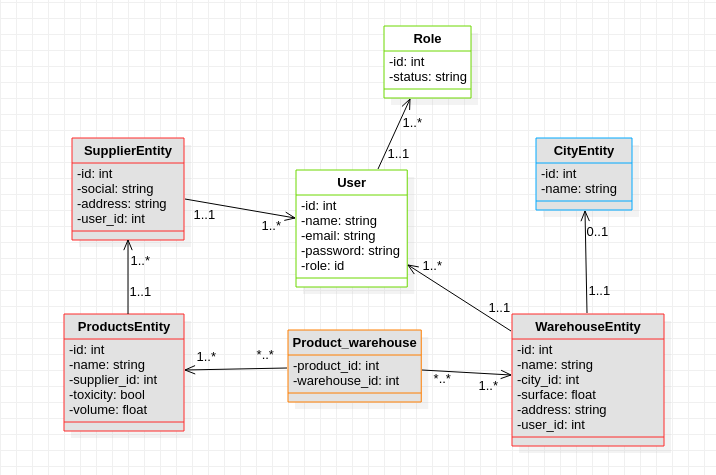
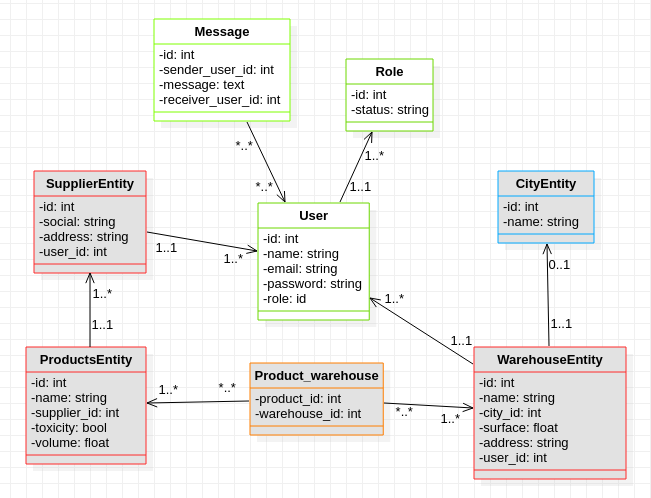
messagerie en cours

Changed region(s): [[0.0307, 0.0295, 0.9831, 0.9726], [0.2151, 0.0295, 0.4608, 0.2947], [0.7373, 0.2653, 0.9217, 0.56]]

diff --git a/www/public/assets/css/styles.css b/www/public/assets/css/styles.css
@@ -31,7 +31,7 @@ p{
 }
 
 @media (max-width: 420px){
-    .display-3, .display-4{
+    .display-3, .display-4, .display-5{
         font-size: 2em;
     }
 

diff --git a/www/src/Controller/MessageController.php b/www/src/Controller/MessageController.php
@@ -1,0 +1,90 @@
+<?php
+namespace App\Controller;
+
+use Core\Controller\Controller;
+use Core\Controller\FormController;
+
+class MessageController extends Controller
+{
+    public function __construct()
+    {
+        $this->userOnly();
+        $this->loadModel('message');
+        $this->loadModel('user');
+    }
+
+    /**
+     * Affichage les messages recues de tous
+     *
+     * @return string
+     */
+    public function index($id)
+    {
+        $this->userOnlyById($id);
+        
+        $user = $this->user->find($id);
+        $messages = $this->message->findAll($id, 'receiver_id');
+
+
+        return $this->render('message/index.html',[
+            'user' => $user,
+            'messages' => $messages
+        ]);
+    }
+
+    /**
+     * Affichage les messages recues d'un autre utilisateur
+     * Traitement de reponse
+     *
+     * @return string
+     */
+    public function show($id, $contact_id)
+    {
+        $this->userOnlyById($id);
+        $messages = $this->message->findAllByContact($id, $contact_id);
+
+        if (!$messages) {
+            header('location: '.$this->generateUrl('messages', ['id' => $id]));
+        }
+        
+        return $this->render('message/show.html', [
+            'messages' => $messages
+        ]);
+    }
+
+    /**
+     * Affichage un formulaire d'ecriture de message
+     * Traitement de l'envoi
+     *
+     * @return string
+     */
+    public function new($id)
+    {
+        $this->userOnlyById($id);
+        $users = $this->user->allWithoutMe($id);
+        
+        $form = new FormController();
+        $form->field('receiver_id', ['require'])
+            ->field('message', ['require', 'length' => 10]);
+        $errors = $form->hasErrors();
+        
+        if (!isset($errors['post'])) {
+            $datas = $form->getDatas();
+
+            if (empty($errors)) {
+                $datas['sender_id'] = $id;
+
+                $this->message->create($datas);
+                $this->flash()->addSuccess('Votre message a bien été envoyé');
+                header('location: '. $this->generateUrl('message_show', ['id' => $id, 'contact_id' => $datas['receiver_id']]));
+                exit();
+            }else{
+                $this->flash()->addAlert('Veillez à bien remplir les champs');
+            }
+        }
+
+        return $this->render('message/add.html', [
+            "users" => $users
+        ]);
+    }
+}

diff --git a/www/src/Controller/UserController.php b/www/src/Controller/UserController.php
@@ -16,6 +16,7 @@ class UserController extends Controller
     {
         $this->loadModel('user');
         $this->loadModel('supplier');
+        $this->loadModel('message');
     }
 
     /**
@@ -26,8 +27,9 @@ class UserController extends Controller
      */
     public function login(): string
     {
+        $this->userForbidden();
 
-        if (!$_SESSION["auth"]["google"]["email"]) {
+        if (!$_SESSION["google"]["email"]) {
             $google = new AuthController();
             $googleClient = $google->loginByGoogle();
         }
@@ -69,6 +71,8 @@ class UserController extends Controller
      */
     public function register(): string
     {
+        $this->userForbidden();
+
         $form = new FormController();
         $form->field('mail', ["require", "verify"])
             ->field('password', ["require", "verify", "length" => 6])
@@ -110,9 +114,7 @@ class UserController extends Controller
      */
     public function profile():string
     {
-        if (!$_SESSION['auth']) {
-            \header('location: /');
-        }
+        $this->userOnly();
         
         $user = $_SESSION['auth'];
 
@@ -154,4 +156,5 @@ class UserController extends Controller
         unset($_SESSION['auth']);
         header('location: /');
     }
+
 }

diff --git a/www/src/Model/Entity/MessageEntity.php b/www/src/Model/Entity/MessageEntity.php
@@ -1,0 +1,64 @@
+<?php
+namespace App\Model\Entity;
+
+use Core\Model\Entity;
+
+class MessageEntity extends Entity
+{
+    private $id;
+    private $sender_id;
+    private $message;
+    private $receiver_id;
+    private $read;
+    private $created_at;
+
+    public function getId()
+    {
+        return $this->id;
+    }
+
+    public function getSenderId()
+    {
+        return $this->sender_id;
+    }
+
+    public function getMessage()
+    {
+        return $this->message;
+    }
+
+    public function getReceiverId()
+    {
+        return $this->receiver_id;
+    }
+
+    public function getRead()
+    {
+        return $this->read;
+    }
+
+    public function getCreatedAt()
+    {
+        return $this->created_at;
+    }
+
+    public function setId($id)
+    {
+        $this->id = $id;
+    }
+
+    public function setSenderId($sender_user_id)
+    {
+        $this->sender_user_id = $sender_user_id;
+    }
+
+    public function setMessage($message)
+    {
+        $this->message = $message;
+    }
+
+    public function setReceiverId($receiver_user_id)
+    {
+        $this->receiver_user_id = $receiver_user_id;
+    }
+}

diff --git a/www/core/Controller/Controller.php b/www/core/Controller/Controller.php
@@ -72,4 +72,40 @@ abstract class Controller
             exit();
         }
     }
+
+    /**
+     * Autorise uniquement les utilisateurs à accèder à la page
+     * 
+     * @return void
+     */
+    protected function userOnly():void
+    {
+        if (!$_SESSION['auth']) {
+            \header('location: /');
+        }
+    }
+
+    /**
+     * Autorise uniquement les utilisateurs précis à accèder à la page
+     * 
+     * @return void
+     */
+    protected function userOnlyById($id):void
+    {
+        if ($_SESSION['auth']->getId() != $id) {
+            \header('location: /');
+        }
+    }
+
+    /**
+     * Autorise uniquement les utilisateurs à accèder à la page
+     * 
+     * @return void
+     */
+    protected function userForbidden():void
+    {
+        if ($_SESSION['auth']) {
+            \header('location: /profile');
+        }
+    }
 }

diff --git a/www/public/index.php b/www/public/index.php
@@ -44,6 +44,11 @@ $app->getRouter($basePath)
     ->match('/google', 'auth#google', 'user_google')
     ->get('/logout', 'user#logout', 'logout')
 
+    //Messagerie
+    ->get('/profile/[i:id]/message', 'message#index', 'messages')
+    ->match('/profile/[i:id]/message/show/[i:contact_id]', 'message#show', 'message_show')
+    ->match('/profile/[i:id]/message/new', 'message#new', 'message_new')
+
     //Fournisseurs
     ->match('/supplier/add', 'supplier#add', 'supplier_add')
     ->get('/suppliers', 'supplier#index', 'suppliers_all')

diff --git a/www/src/Model/Table/MessageTable.php b/www/src/Model/Table/MessageTable.php
@@ -1,0 +1,12 @@
+<?php
+namespace App\Model\Table;
+
+use Core\Model\Table;
+
+class MessageTable extends Table
+{
+    public function findAllByContact($sender_id, $receiver_id)
+    {
+        return $this->query("SELECT * FROM {$this->table} WHERE sender_id = $sender_id AND receiver_id = $receiver_id");
+    }
+}

diff --git a/www/src/Model/Entity/UserEntity.php b/www/src/Model/Entity/UserEntity.php
@@ -68,4 +68,14 @@ class UserEntity extends Entity
             ]
         );
     }
+
+    public function getMessageUrl()
+    {
+        return \App\App::getInstance()->getRouter()->url(
+            'messages',
+            [
+                'id' => $this->getId()
+            ]
+        );
+    }
 }

diff --git a/www/src/Model/Table/UserTable.php b/www/src/Model/Table/UserTable.php
@@ -45,4 +45,9 @@ class UserTable extends Table
         
         return $this->query("DELETE FROM {$this->table} WHERE $column = '$id'");
     }
+
+    public function allWithoutMe($id)
+    {
+    return $this->query("SELECT * FROM {$this->table} WHERE NOT id = $id");
+    }
 }

diff --git a/README.md b/README.md
@@ -89,10 +89,11 @@ Les police monospace utilisée par le thème bootswatch : **"SFMono-Regular"**.
 * ~~Implementer la connexion via Google~~ et Facebook
 * ~~Refaire première maquette (home mobile)~~
 * ~~Maquette administration~~
+* Boîte de messagerie interne
+* Mettre à jour UML
 * Commenter le code *in progress*
 
 Optionnel :
-* Faire des propositions de Fournisseurs aux Gérants d'entrepôt (proposition de produit)
 * Ajouter un produit si seulement il nous reste de la place
 
 Pour la présentation :
